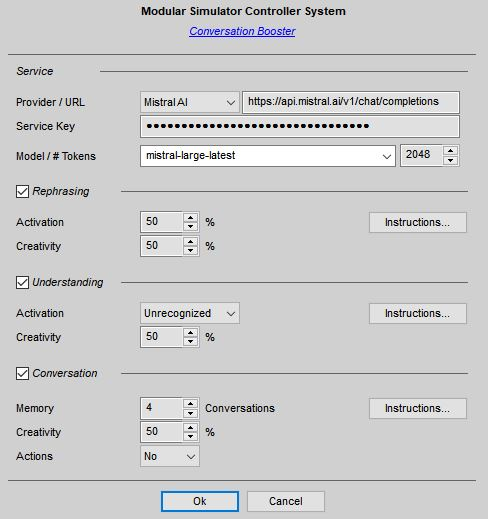
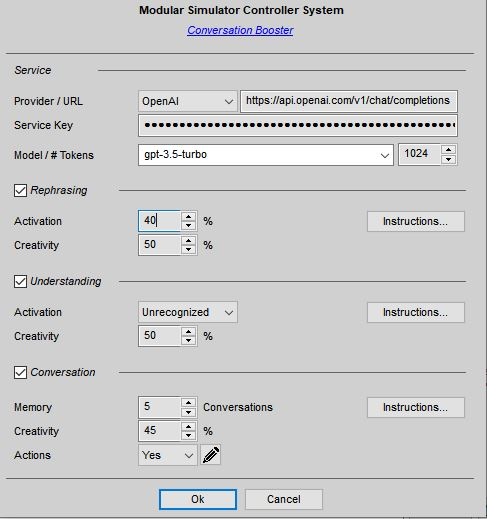
Documentation Update

diff --git a/Docs/Releases.md b/Docs/Releases.md
@@ -3,7 +3,7 @@
   2. Documentation updates here and there, as always
   3. Fixed the lap time comparison information of the Spotter in multiclass races. A bug resulted in a comparison of cars from different classes which resulted in very confusing information.
   4. The default instructions of the Conversation Booster has been updated again to improve conversation quality further. Please see the Update Notes, if you have modified these instructions.
-  5. The LLMs used to boost the conversation capabilities of the Assistants are now allowed to trigger some actions as a result of your interaction. A few actions already have been defined for the [Enginer](https://github.com/SeriousOldMan/Simulator-Controller/wiki/Virtual-Race-Engineer#trigger-actions-from-conversation) and the [Strategist](https://github.com/SeriousOldMan/Simulator-Controller/wiki/Virtual-Race-Strategist#trigger-actions-from-conversation) with more to come in the next releases. Using actions, it is possible to define new voice commands, but the LLMs are also allowed to trigger the actions based on the current situation and data constellation.
+  5. The LLMs used to boost the conversation capabilities of the Assistants are now allowed to trigger some actions as a result of your interaction. A few actions already have been defined for the [Engineer](https://github.com/SeriousOldMan/Simulator-Controller/wiki/Virtual-Race-Engineer#trigger-actions-from-conversation) and the [Strategist](https://github.com/SeriousOldMan/Simulator-Controller/wiki/Virtual-Race-Strategist#trigger-actions-from-conversation) with more to come in the next releases. Using actions, it is possible to define new voice commands, but the LLMs are also allowed to trigger the actions based on the current situation and data constellation.
   
      Please note, that using *Actions* is not enabled by default, but must be explicitly activated in the configuration.
   6. Action definition files are customizeable in the [Documents]\Simulator Controller\Actions folder.
